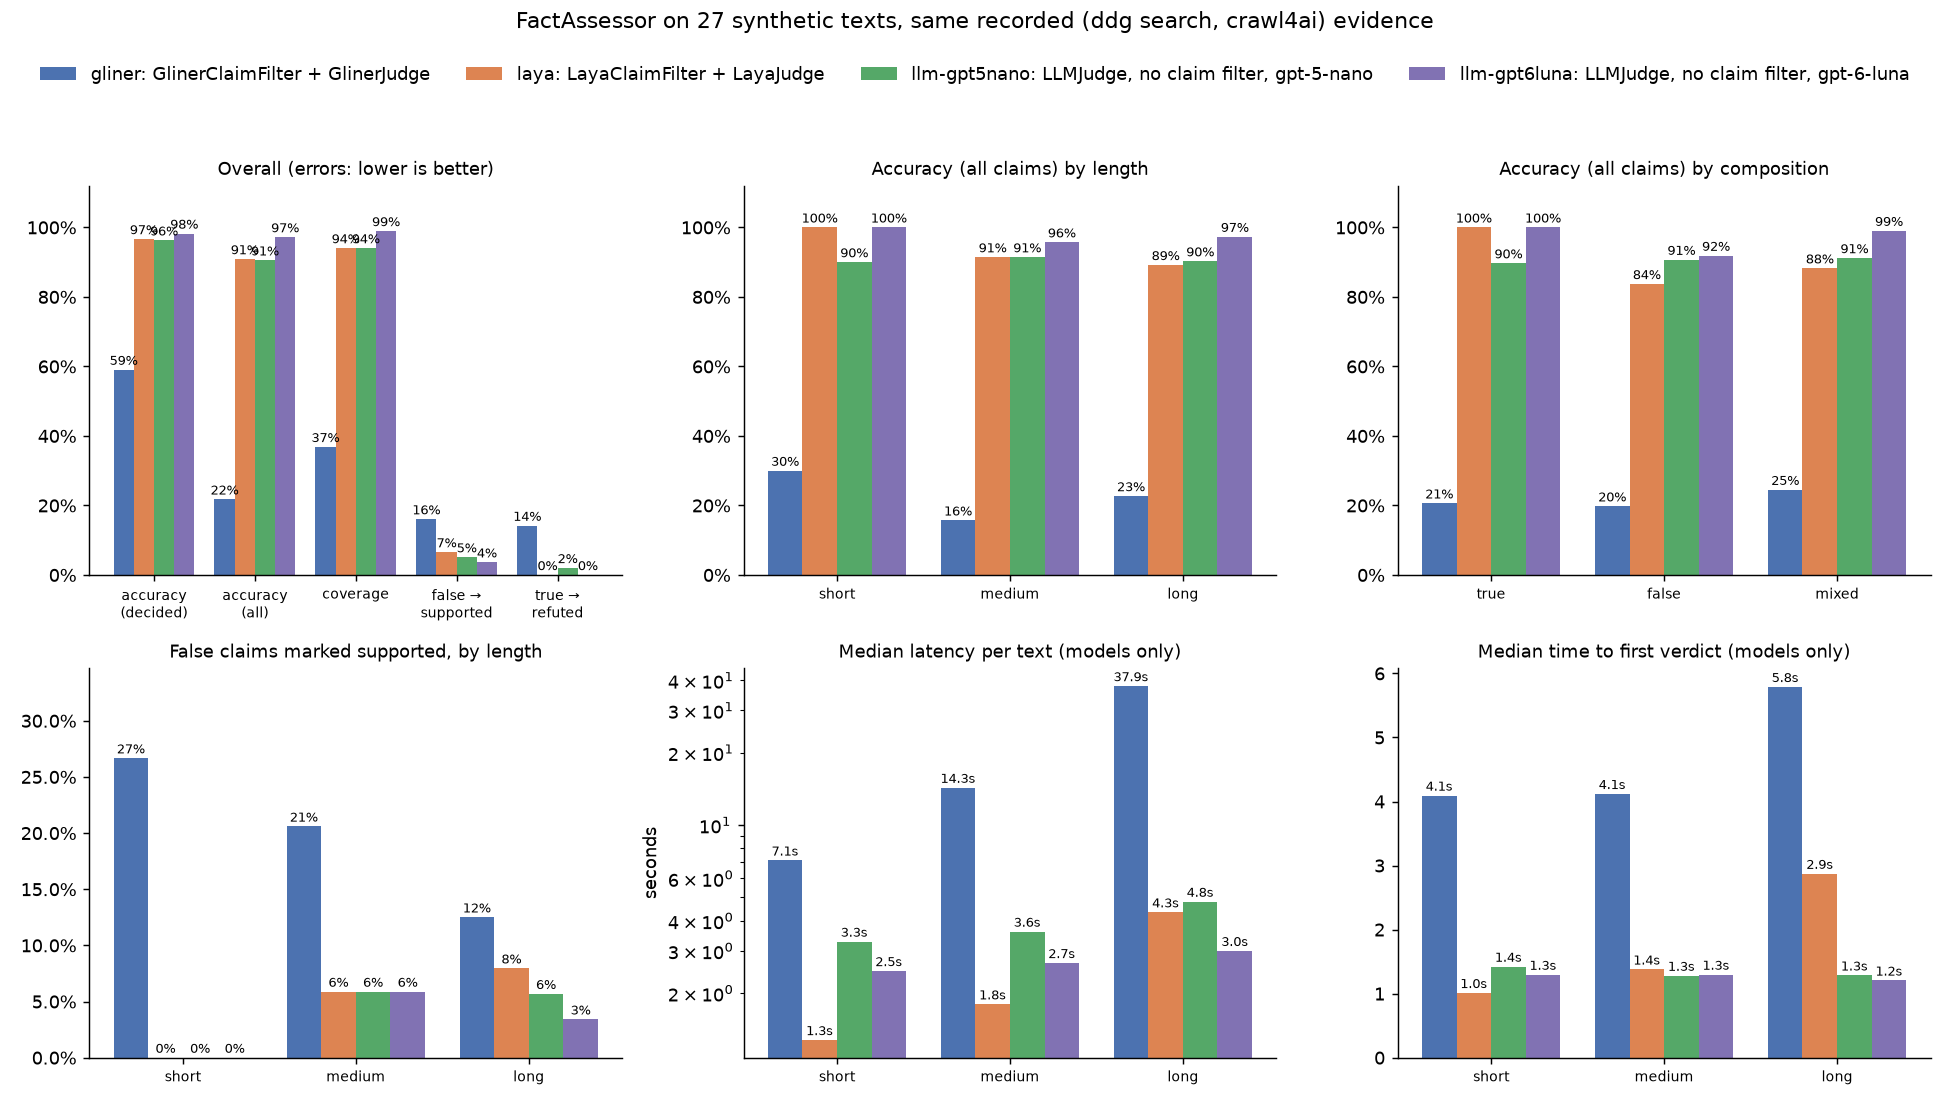
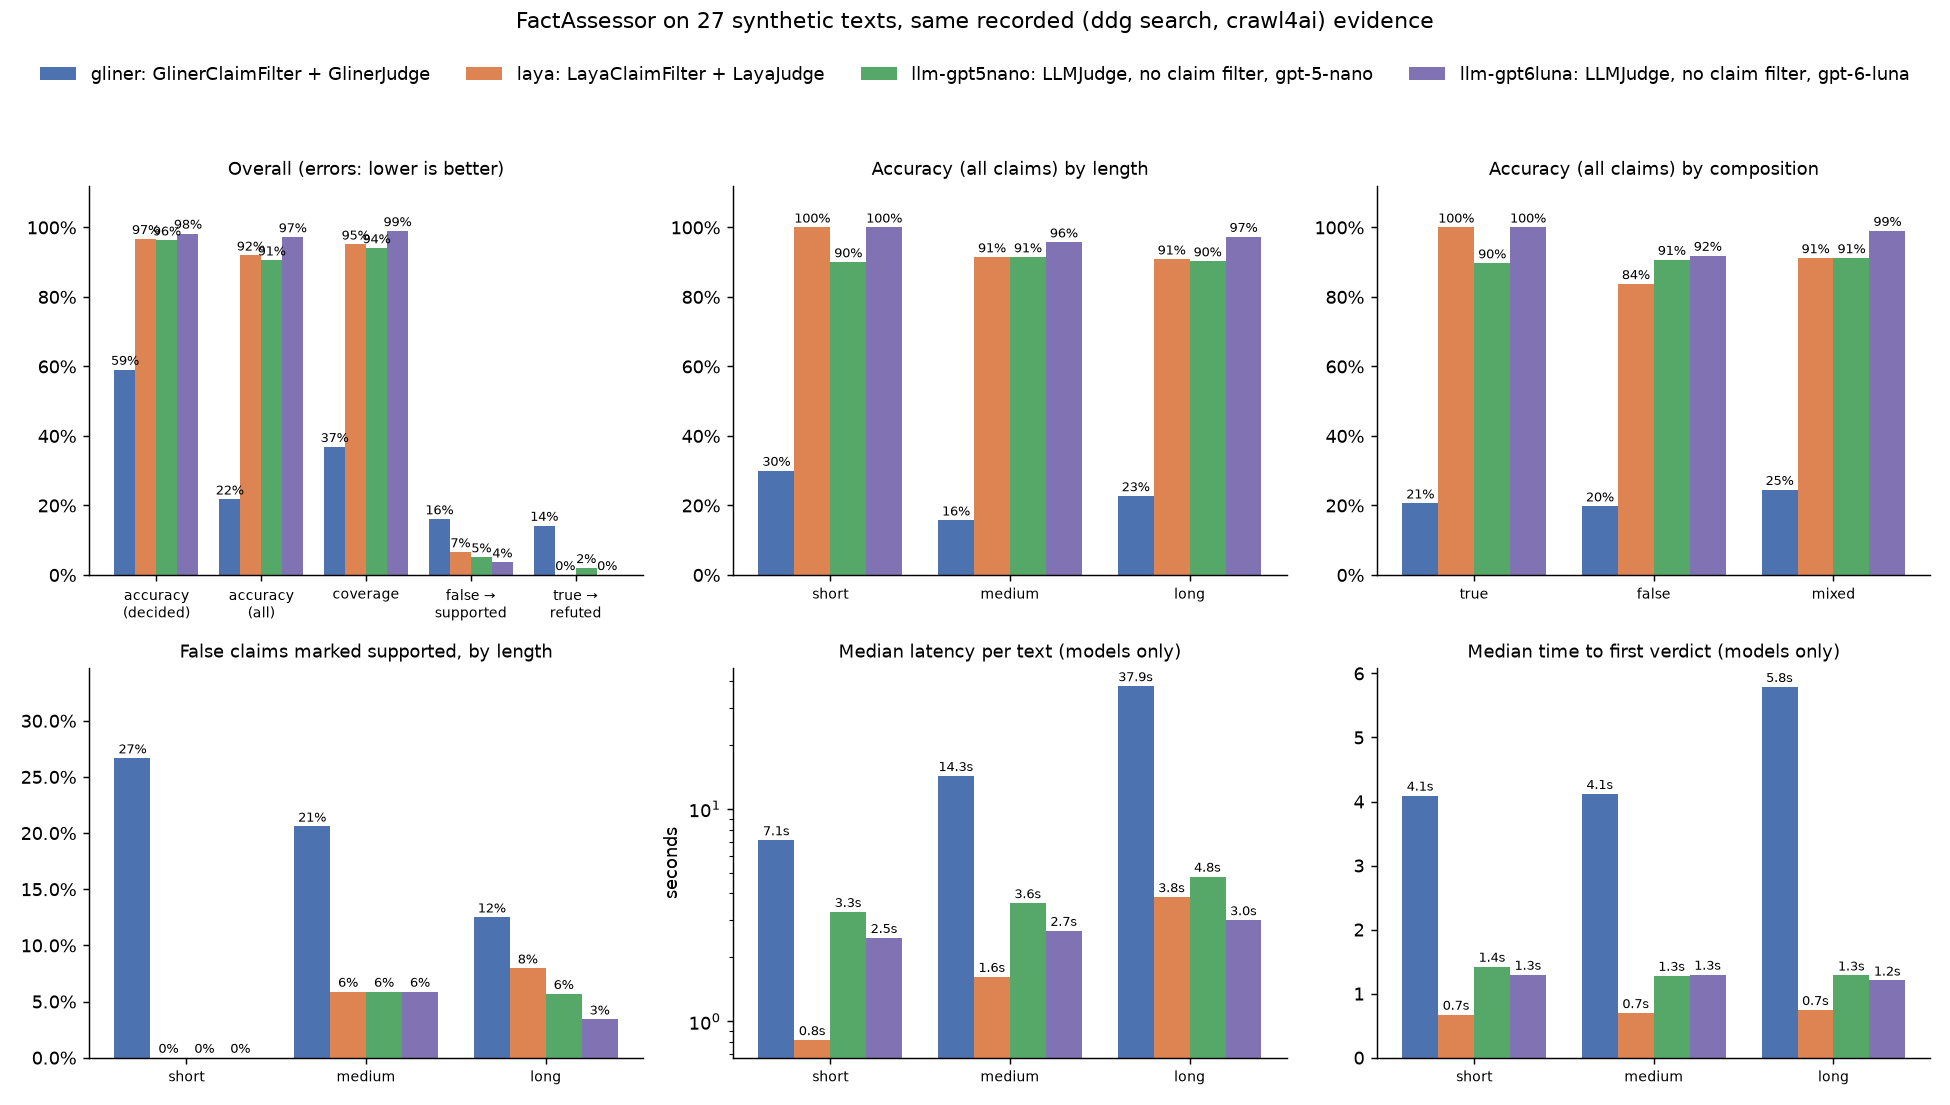
Eval: laya rerun after the long-snippet fix (91% -> 92% of all claims, coverage 94% -> 95%)
Claude-Session: https://claude.ai/code/session_01YGthvrxtMrmN36NxQ5NoJr

diff --git a/data/results/eval-comparison.md b/data/results/eval-comparison.md
@@ -11,7 +11,7 @@ Evidence: recorded (ddg search, crawl4ai).
 | variant | claims | coverage | accuracy (decided) | accuracy (all) | false → supported | true → refuted | fact-score error | latency (median) | first verdict (median) |
 |---|---|---|---|---|---|---|---|---|---|
 | gliner (GlinerClaimFilter + GlinerJudge) | 285 | 37% | 59% | 22% | 16% | 14% | 0.41 | 14.3s | 4.3s |
-| laya (LayaClaimFilter + LayaJudge) | 285 | 94% | 97% | 91% | 7% | 0% | 0.04 | 1.8s | 1.3s |
+| laya (LayaClaimFilter + LayaJudge) | 285 | 95% | 97% | 92% | 7% | 0% | 0.03 | 1.6s | 0.7s |
 | llm-gpt5nano (LLMJudge, no claim filter, openai:gpt-5-nano) | 285 | 94% | 96% | 91% | 5% | 2% | 0.05 | 3.9s | 1.3s |
 | llm-gpt6luna (LLMJudge, no claim filter, openai:gpt-6-luna) | 285 | 99% | 98% | 97% | 4% | 0% | 0.02 | 2.9s | 1.2s |
 
@@ -20,7 +20,7 @@ Evidence: recorded (ddg search, crawl4ai).
 | variant | claims | coverage | accuracy (decided) | accuracy (all) | false → supported | true → refuted | fact-score error | latency (median) | first verdict (median) |
 |---|---|---|---|---|---|---|---|---|---|
 | gliner (GlinerClaimFilter + GlinerJudge) | 30 | 47% | 64% | 30% | 27% | 7% | 0.38 | 7.1s | 4.1s |
-| laya (LayaClaimFilter + LayaJudge) | 30 | 100% | 100% | 100% | 0% | 0% | 0.00 | 1.3s | 1.0s |
+| laya (LayaClaimFilter + LayaJudge) | 30 | 100% | 100% | 100% | 0% | 0% | 0.00 | 0.8s | 0.7s |
 | llm-gpt5nano (LLMJudge, no claim filter, openai:gpt-5-nano) | 30 | 93% | 96% | 90% | 0% | 7% | 0.04 | 3.3s | 1.4s |
 | llm-gpt6luna (LLMJudge, no claim filter, openai:gpt-6-luna) | 30 | 100% | 100% | 100% | 0% | 0% | 0.00 | 2.5s | 1.3s |
 
@@ -29,7 +29,7 @@ Evidence: recorded (ddg search, crawl4ai).
 | variant | claims | coverage | accuracy (decided) | accuracy (all) | false → supported | true → refuted | fact-score error | latency (median) | first verdict (median) |
 |---|---|---|---|---|---|---|---|---|---|
 | gliner (GlinerClaimFilter + GlinerJudge) | 70 | 33% | 48% | 16% | 21% | 14% | 0.52 | 14.3s | 4.1s |
-| laya (LayaClaimFilter + LayaJudge) | 70 | 94% | 97% | 91% | 6% | 0% | 0.05 | 1.8s | 1.4s |
+| laya (LayaClaimFilter + LayaJudge) | 70 | 94% | 97% | 91% | 6% | 0% | 0.04 | 1.6s | 0.7s |
 | llm-gpt5nano (LLMJudge, no claim filter, openai:gpt-5-nano) | 70 | 94% | 97% | 91% | 6% | 0% | 0.05 | 3.6s | 1.3s |
 | llm-gpt6luna (LLMJudge, no claim filter, openai:gpt-6-luna) | 70 | 99% | 97% | 96% | 6% | 0% | 0.04 | 2.7s | 1.3s |
 
@@ -38,7 +38,7 @@ Evidence: recorded (ddg search, crawl4ai).
 | variant | claims | coverage | accuracy (decided) | accuracy (all) | false → supported | true → refuted | fact-score error | latency (median) | first verdict (median) |
 |---|---|---|---|---|---|---|---|---|---|
 | gliner (GlinerClaimFilter + GlinerJudge) | 185 | 37% | 62% | 23% | 12% | 15% | 0.35 | 37.9s | 5.8s |
-| laya (LayaClaimFilter + LayaJudge) | 185 | 93% | 96% | 89% | 8% | 0% | 0.06 | 4.3s | 2.9s |
+| laya (LayaClaimFilter + LayaJudge) | 185 | 95% | 96% | 91% | 8% | 0% | 0.05 | 3.8s | 0.7s |
 | llm-gpt5nano (LLMJudge, no claim filter, openai:gpt-5-nano) | 185 | 94% | 96% | 90% | 6% | 2% | 0.05 | 4.8s | 1.3s |
 | llm-gpt6luna (LLMJudge, no claim filter, openai:gpt-6-luna) | 185 | 99% | 98% | 97% | 3% | 0% | 0.02 | 3.0s | 1.2s |
 
@@ -47,7 +47,7 @@ Evidence: recorded (ddg search, crawl4ai).
 | variant | claims | coverage | accuracy (decided) | accuracy (all) | false → supported | true → refuted | fact-score error | latency (median) | first verdict (median) |
 |---|---|---|---|---|---|---|---|---|---|
 | gliner (GlinerClaimFilter + GlinerJudge) | 97 | 37% | 56% | 21% | – | 16% | 0.45 | 15.9s | 4.1s |
-| laya (LayaClaimFilter + LayaJudge) | 97 | 100% | 100% | 100% | – | 0% | 0.00 | 1.6s | 1.4s |
+| laya (LayaClaimFilter + LayaJudge) | 97 | 100% | 100% | 100% | – | 0% | 0.00 | 1.4s | 0.8s |
 | llm-gpt5nano (LLMJudge, no claim filter, openai:gpt-5-nano) | 97 | 93% | 97% | 90% | – | 3% | 0.09 | 3.9s | 1.3s |
 | llm-gpt6luna (LLMJudge, no claim filter, openai:gpt-6-luna) | 97 | 100% | 100% | 100% | – | 0% | 0.00 | 2.6s | 1.2s |
 
@@ -56,7 +56,7 @@ Evidence: recorded (ddg search, crawl4ai).
 | variant | claims | coverage | accuracy (decided) | accuracy (all) | false → supported | true → refuted | fact-score error | latency (median) | first verdict (median) |
 |---|---|---|---|---|---|---|---|---|---|
 | gliner (GlinerClaimFilter + GlinerJudge) | 86 | 38% | 52% | 20% | 19% | – | 0.58 | 11.5s | 4.2s |
-| laya (LayaClaimFilter + LayaJudge) | 86 | 92% | 91% | 84% | 8% | – | 0.07 | 2.0s | 1.2s |
+| laya (LayaClaimFilter + LayaJudge) | 86 | 92% | 91% | 84% | 8% | – | 0.07 | 1.7s | 0.7s |
 | llm-gpt5nano (LLMJudge, no claim filter, openai:gpt-5-nano) | 86 | 92% | 99% | 91% | 1% | – | 0.01 | 3.7s | 1.3s |
 | llm-gpt6luna (LLMJudge, no claim filter, openai:gpt-6-luna) | 86 | 97% | 95% | 92% | 5% | – | 0.05 | 2.9s | 1.2s |
 
@@ -65,14 +65,14 @@ Evidence: recorded (ddg search, crawl4ai).
 | variant | claims | coverage | accuracy (decided) | accuracy (all) | false → supported | true → refuted | fact-score error | latency (median) | first verdict (median) |
 |---|---|---|---|---|---|---|---|---|---|
 | gliner (GlinerClaimFilter + GlinerJudge) | 102 | 35% | 69% | 25% | 12% | 10% | 0.22 | 16.0s | 4.6s |
-| laya (LayaClaimFilter + LayaJudge) | 102 | 90% | 98% | 88% | 4% | 0% | 0.04 | 2.0s | 1.5s |
+| laya (LayaClaimFilter + LayaJudge) | 102 | 93% | 98% | 91% | 4% | 0% | 0.03 | 1.9s | 0.7s |
 | llm-gpt5nano (LLMJudge, no claim filter, openai:gpt-5-nano) | 102 | 97% | 94% | 91% | 12% | 0% | 0.05 | 4.2s | 1.3s |
 | llm-gpt6luna (LLMJudge, no claim filter, openai:gpt-6-luna) | 102 | 100% | 99% | 99% | 2% | 0% | 0.00 | 2.9s | 1.3s |
 
 ### Warm-up (not counted above)
 
 - gliner: load 1.9s, claim filter 0.13s then 0.12s, judge 0.10s then 0.10s, full checks 5.9s, 5.9s
-- laya: load 4.7s, claim filter 0.14s then 0.03s, judge 0.04s then 0.03s, full checks 1.9s, 1.2s
+- laya: load 2.4s, claim filter 0.25s then 0.03s, judge 0.08s then 0.03s, full checks 0.9s, 0.8s
 - llm-gpt5nano: load 0.0s, judge 1.32s then 1.51s, full checks 2.7s, 4.6s, 2.6s
 - llm-gpt6luna: load 0.0s, judge 2.24s then 1.42s, full checks 2.9s, 1.6s
 
@@ -87,8 +87,8 @@ Evidence: recorded (ddg search, crawl4ai).
 
 | gold | supported | refuted | contested | unverified | skipped |
 |---|---|---|---|---|---|
-| true | 147 | 0 | 1 | 0 | 0 |
-| false | 9 | 112 | 4 | 8 | 4 |
+| true | 148 | 0 | 0 | 0 | 0 |
+| false | 9 | 114 | 5 | 5 | 4 |
 
 ### Verdicts by ground truth: llm-gpt5nano
 

diff --git a/data/results/eval-laya.md b/data/results/eval-laya.md
@@ -1,20 +1,20 @@
 # FactAssessor eval: LayaClaimFilter + LayaJudge
 
-27 texts, 282 sentences, 285 atoms. Evidence: recorded (ddg search, crawl4ai). Warm-up (not counted): load 4.7s, claim filter 0.14s then 0.03s, judge 0.04s then 0.03s, full checks 1.9s, 1.2s.
+27 texts, 282 sentences, 285 atoms. Evidence: recorded (ddg search, crawl4ai). Per-claim timeout 15s. Warm-up (not counted): load 2.4s, claim filter 0.25s then 0.03s, judge 0.08s then 0.03s, full checks 0.9s, 0.8s.
 
 | group | claims | coverage | accuracy (decided) | accuracy (all) | false → supported | true → refuted | fact-score error | latency (median) | first verdict (median) |
 |---|---|---|---|---|---|---|---|---|---|
-| all | 285 | 94% | 97% | 91% | 7% | 0% | 0.04 | 1.8s | 1.3s |
-| short (2–4 sent.) | 30 | 100% | 100% | 100% | 0% | 0% | 0.00 | 1.3s | 1.0s |
-| medium (5–10 sent.) | 70 | 94% | 97% | 91% | 6% | 0% | 0.05 | 1.8s | 1.4s |
-| long (15–25 sent.) | 185 | 93% | 96% | 89% | 8% | 0% | 0.06 | 4.3s | 2.9s |
-| true texts | 97 | 100% | 100% | 100% | – | 0% | 0.00 | 1.6s | 1.4s |
-| false texts | 86 | 92% | 91% | 84% | 8% | – | 0.07 | 2.0s | 1.2s |
-| mixed texts | 102 | 90% | 98% | 88% | 4% | 0% | 0.04 | 2.0s | 1.5s |
+| all | 285 | 95% | 97% | 92% | 7% | 0% | 0.03 | 1.6s | 0.7s |
+| short (2–4 sent.) | 30 | 100% | 100% | 100% | 0% | 0% | 0.00 | 0.8s | 0.7s |
+| medium (5–10 sent.) | 70 | 94% | 97% | 91% | 6% | 0% | 0.04 | 1.6s | 0.7s |
+| long (15–25 sent.) | 185 | 95% | 96% | 91% | 8% | 0% | 0.05 | 3.8s | 0.7s |
+| true texts | 97 | 100% | 100% | 100% | – | 0% | 0.00 | 1.4s | 0.8s |
+| false texts | 86 | 92% | 91% | 84% | 8% | – | 0.07 | 1.7s | 0.7s |
+| mixed texts | 102 | 93% | 98% | 91% | 4% | 0% | 0.03 | 1.9s | 0.7s |
 
 ## Verdicts by ground truth
 
 | gold | supported | refuted | contested | unverified | skipped |
 |---|---|---|---|---|---|
-| true | 147 | 0 | 1 | 0 | 0 |
-| false | 9 | 112 | 4 | 8 | 4 |
+| true | 148 | 0 | 0 | 0 | 0 |
+| false | 9 | 114 | 5 | 5 | 4 |
